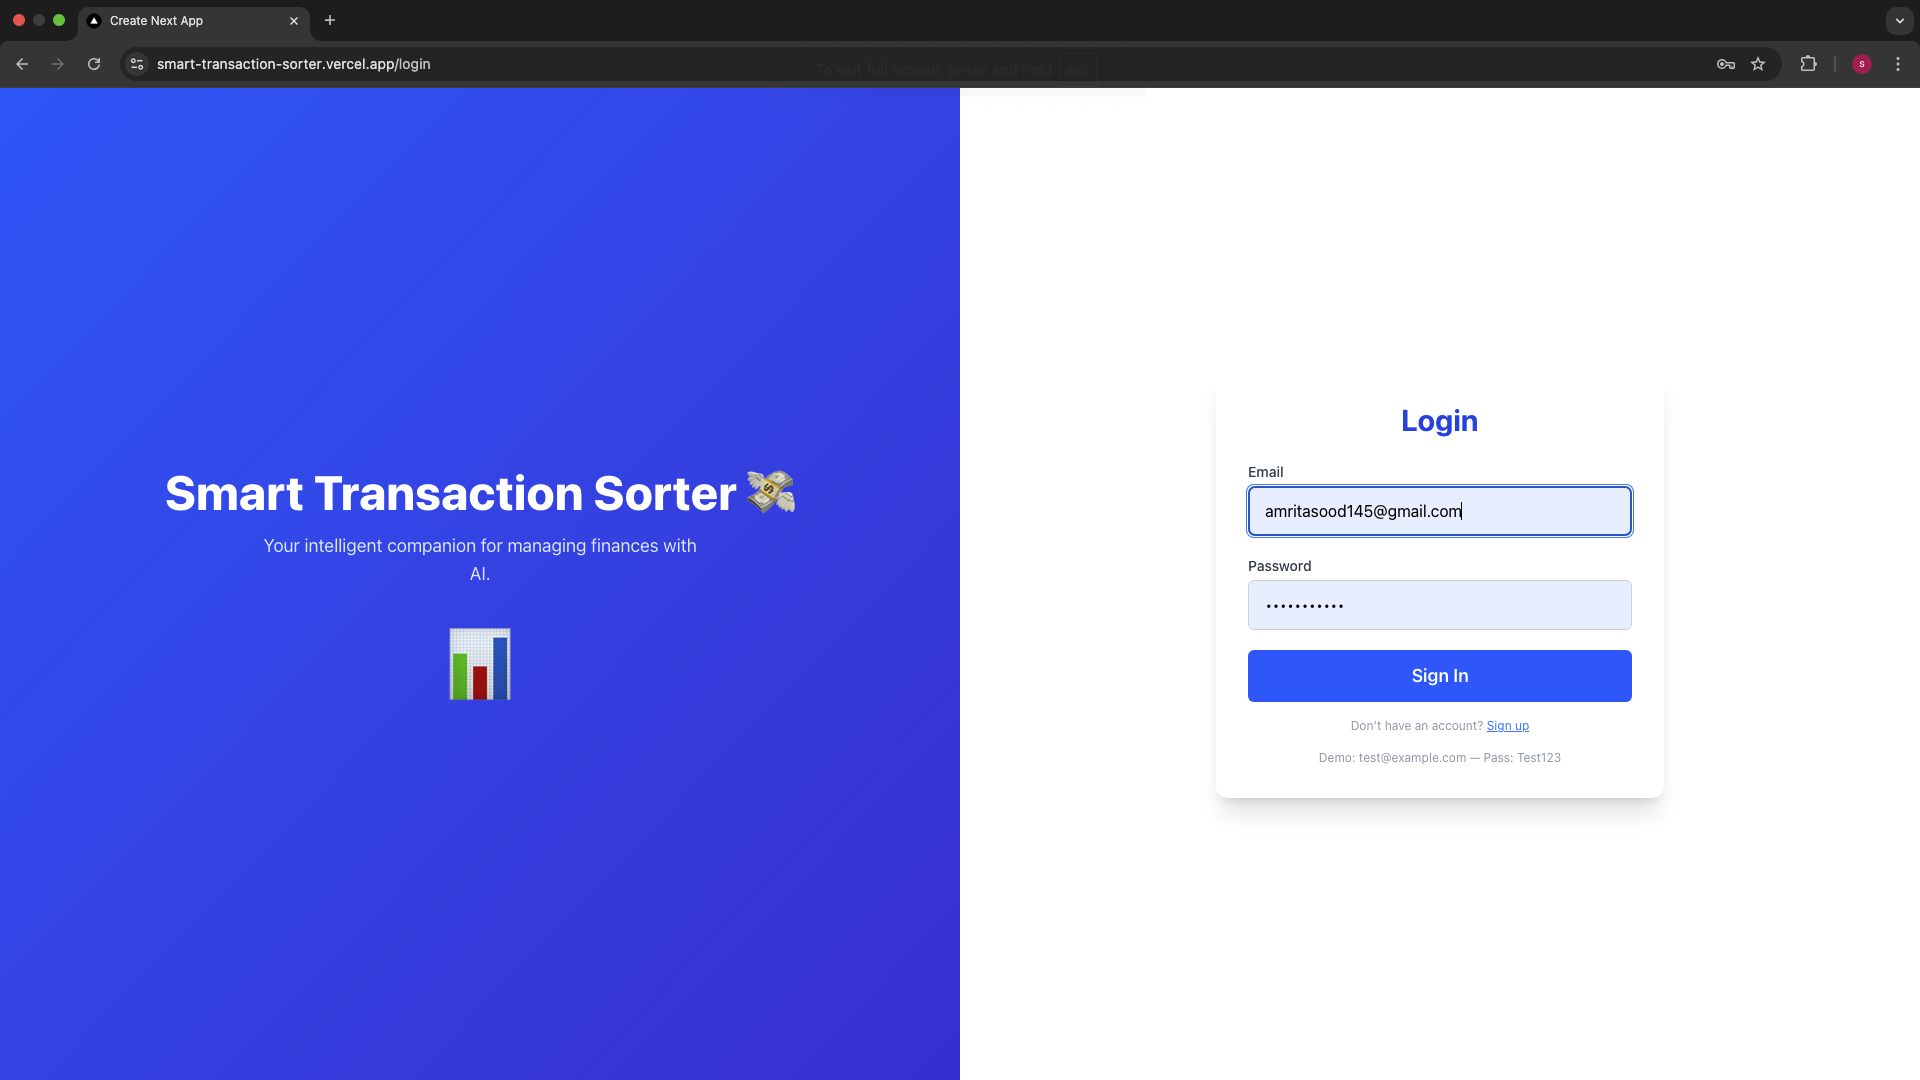
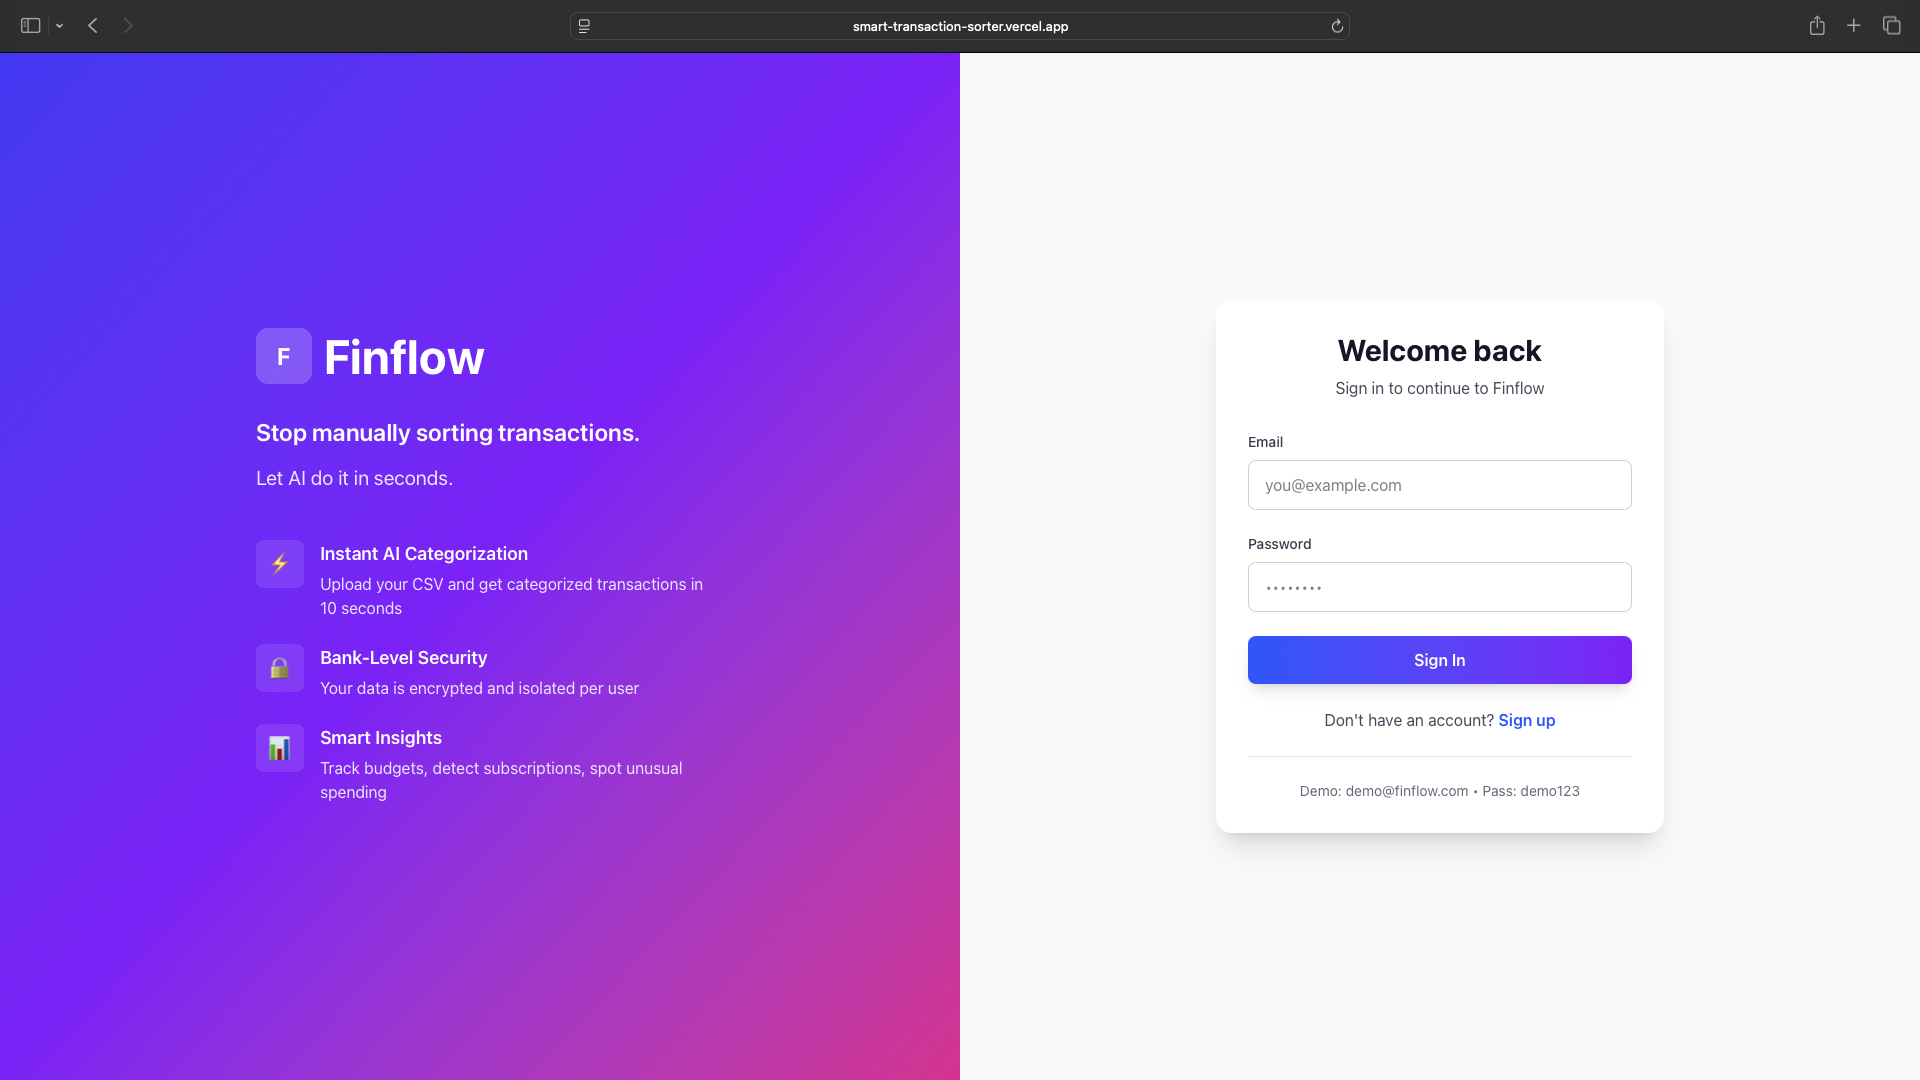
updated Readme with the changes

diff --git a/README.md b/README.md
@@ -1,4 +1,4 @@
-# Smart Transaction Sorter 💰
+# FinFlow 💰
 
 AI-powered web application that analyzes bank transaction data, automatically categorizes expenses, and provides spending insights through an interactive dashboard.
 
@@ -9,21 +9,24 @@ AI-powered web application that analyzes bank transaction data, automatically ca
 ## ✨ Features
 
 - 🔐 Secure user authentication with JWT
-- 📊 CSV file upload and processing
-- 🤖 AI-powered transaction categorization using OpenAI GPT
+- 📊 CSV or Excel file upload and processing with intelligent header detection
+- 🤖 AI-powered transaction categorization using OpenAI GPT-4
 - ⚠ Anomaly detection for unusual spending patterns
 - 📈 Interactive analytics dashboard with visualizations
-- 💡 AI insights assistant for spending recommendations
-- 📥 Export analyzed data
+- 💡 AI insights assistant for personalized spending recommendations
+- 📥 Export analyzed data to CSV
+- 🔄 Manual category editing and transaction management
+- 📱 Responsive design for mobile and desktop
 
 ## 🛠 Tech Stack
 
-- **Frontend:** Next.js, React, TypeScript, Tailwind CSS
+- **Frontend:** Next.js 14, React, TypeScript, Tailwind CSS, Recharts
 - **Backend:** Next.js API Routes, Node.js
-- **Database:** MongoDB
+- **Database:** MongoDB with Mongoose ODM
 - **AI:** OpenAI GPT-4 API
-- **Authentication:** JWT
+- **Authentication:** JWT with bcrypt password hashing
 - **Deployment:** Vercel
+- **File Processing:** CSV parsing with intelligent column mapping
 
 ## 📸 Screenshots
 
@@ -44,57 +47,113 @@ AI-powered web application that analyzes bank transaction data, automatically ca
 
 ## 🎯 Key Highlights
 
-- Processes CSV files with intelligent header detection
-- Real-time AI categorization of transactions
-- Visual spending breakdown by category
-- Daily income/expense tracking with charts
-- Anomaly detection for suspicious transactions
-- Natural language insights powered by GPT
+- **Intelligent CSV Processing:** Automatically detects and maps various CSV formats from different banks
+- **Real-time AI Categorization:** Uses GPT-4 to intelligently categorize transactions into 12+ categories
+- **Visual Analytics:** 
+  - Spending breakdown by category with pie charts
+  - Daily income/expense tracking with bar charts
+  - Time-series spending trends
+- **Anomaly Detection:** Identifies unusual spending patterns based on historical data
+- **Natural Language Insights:** AI-powered assistant provides personalized financial advice
+- **Transaction Management:** Edit categories, add notes, and manage transactions manually
+- **Export Functionality:** Download processed transactions with categories
 
 ## ⚙ Setup Instructions
 
-1. Clone the repository
+1. **Clone the repository**
 ```bash
 git clone https://github.com/Samarr1981/smart-transaction-sorter.git
 cd smart-transaction-sorter
 ```
 
-2. Install dependencies
+2. **Install dependencies**
 ```bash
 npm install
 ```
 
-3. Set up environment variables
+3. **Set up environment variables**
+
+Create a `.env.local` file in the root directory:
 ```bash
 MONGODB_URI=your_mongodb_connection_string
-JWT_SECRET=your_jwt_secret
+JWT_SECRET=your_jwt_secret_key
 OPENAI_API_KEY=your_openai_api_key
 ```
 
-4. Run the development server
+4. **Run the development server**
 ```bash
 npm run dev
 ```
 
-5. Open [http://localhost:3000](http://localhost:3000)
+5. **Open your browser**
+
+Navigate to [http://localhost:3000](http://localhost:3000)
+
+## 📊 Transaction Categories
+
+FinFlow categorizes transactions into the following categories:
+
+- 🍔 Food & Dining
+- 🛒 Groceries
+- 🚗 Transportation
+- 🏠 Housing & Utilities
+- 🎬 Entertainment
+- 🏥 Healthcare
+- 👕 Shopping
+- ✈ Travel
+- 📚 Education
+- 💼 Business
+- 💰 Income
+- 📝 Other
+
+## 🔒 Security Features
+
+- Password hashing with bcrypt
+- JWT-based authentication
+- Protected API routes
+- Secure session management
+- Environment variable protection
 
 ## 🔮 Future Enhancements
 
-- Excel file support (.xlsx)
-- Enhanced recurring transaction detection
-- Multi-currency support
-- Budget tracking and alerts
-- Mobile app version
+- Enhanced recurring transaction detection and management
+- Multi-currency support with real-time exchange rates
+- Budget tracking and customizable alerts
+- Savings goals and recommendations
+- Mobile app version (React Native)
+- Bank API integration for automatic transaction syncing
+- Advanced data visualization options
+- PDF report generation
+- Multi-user household accounts
 
 ## 📝 Known Limitations
 
-- AI categorization accuracy varies based on transaction description clarity
-- Anomaly detection threshold being refined based on user spending patterns
+- AI categorization accuracy depends on transaction description quality
+- Anomaly detection threshold is continuously being refined
+- Single currency support (CAD/USD)
+
+## 🧪 Testing
+
+**Demo Credentials:**
+- Email: demo@finflow.com
+- Password: demo123
+
+**Sample CSV Format:**
+
+Your CSV should contain columns for:
+- Date (various formats supported)
+- Description/Details
+- Amount/Debit/Credit
+- Balance (optional)
+
+## 📄 License
+
+This project is open source and available for educational purposes.
 
 ---
 
 **Built with ❤ as a capstone project demonstrating full-stack development with modern AI integration**
 
-**Demo Credentials:**
-- Email: test@example.com
-- Password: Test123
+**Developer:** Samarpartap Passey  
+**Project:** Computer Programming and Analysis Capstone  
+**Institution:** Niagara College
